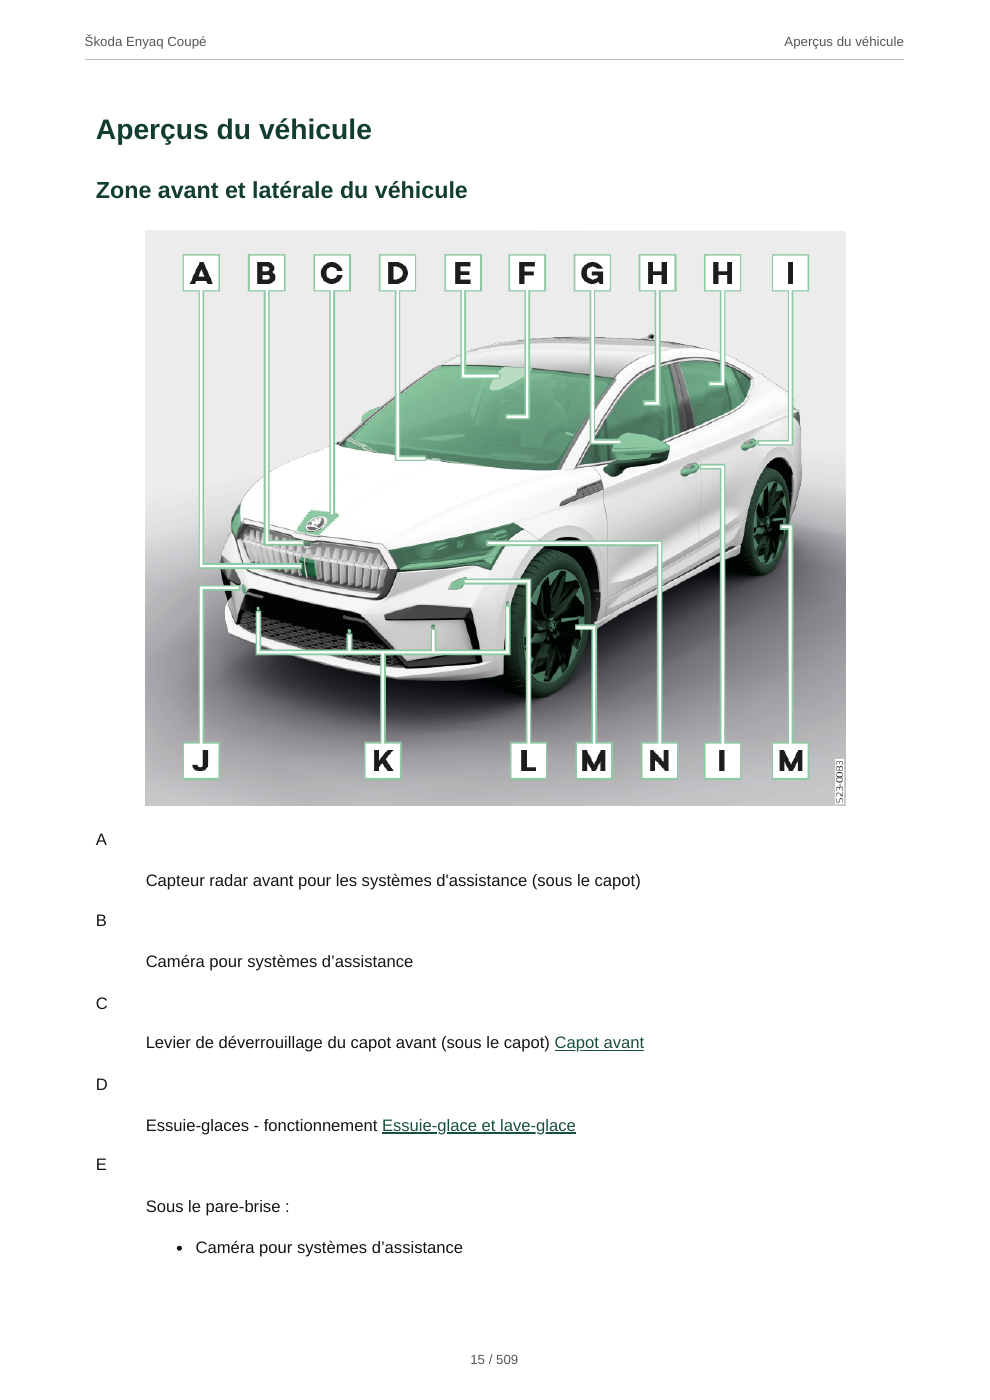
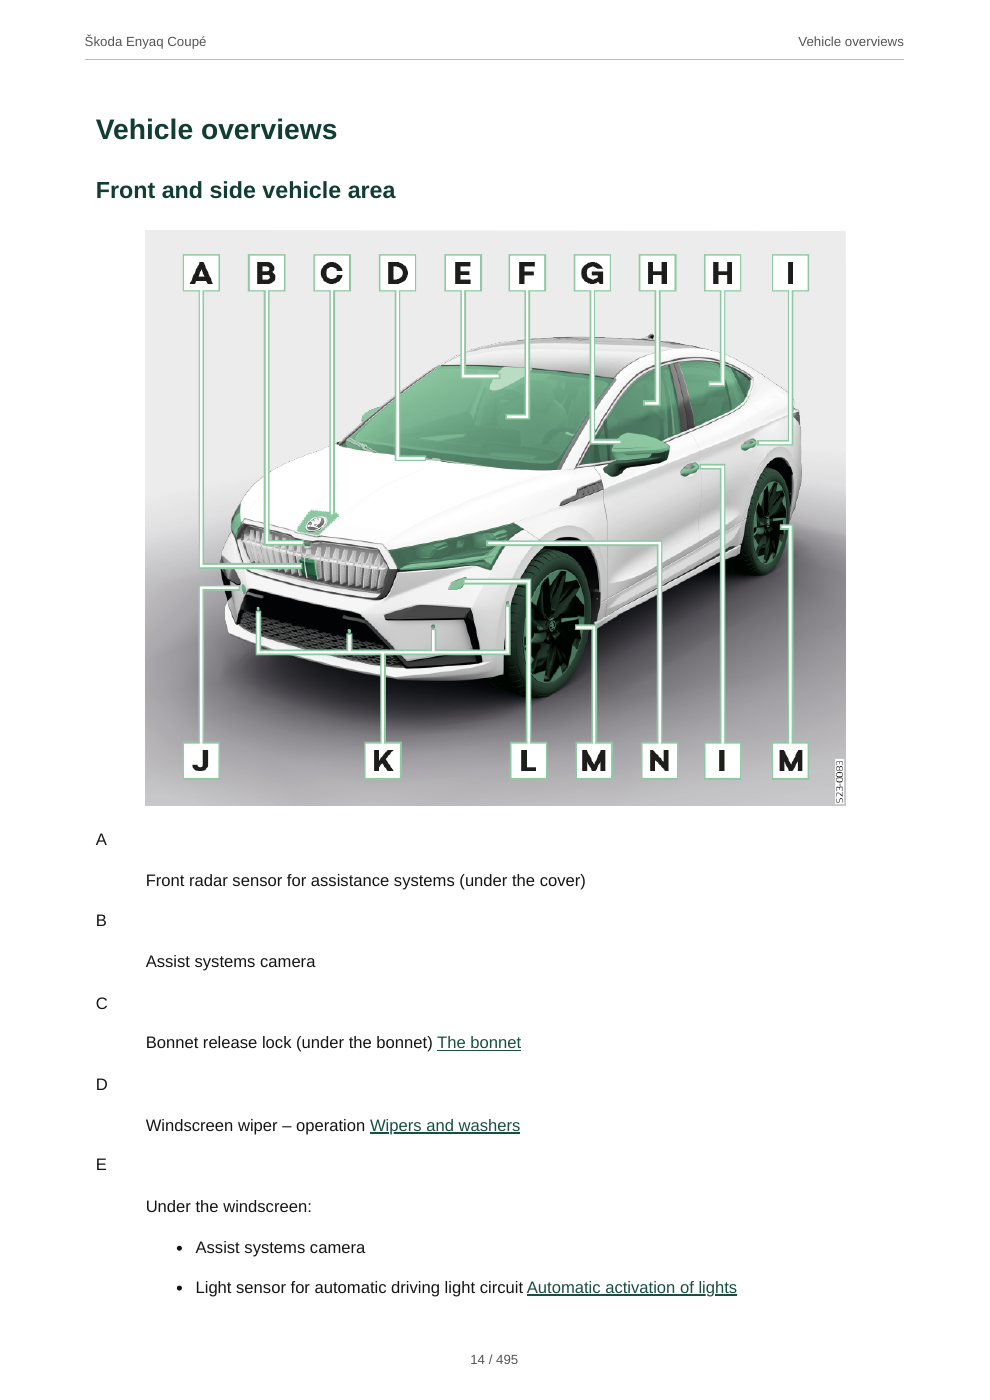
docs: replace pdf preview with english sample

diff --git a/README.md b/README.md
@@ -4,9 +4,9 @@ Export the documentation Škoda returns for a VIN and language into one searchab
 
 ## PDF preview
 
-Sample page from a generated French Škoda Enyaq Coupé manual, showing illustrations, chapter headers and page numbering.
+Sample page from a generated English Škoda Enyaq Coupé manual, showing illustrations, chapter headers and page numbering.
 
-<img src="docs/images/pdf-sample.png" alt="Generated PDF page showing the Enyaq Coupé vehicle overview with a labelled illustration, chapter header and page number" width="600">
+<img src="docs/images/pdf-sample.png" alt="Generated English PDF page showing the Enyaq Coupé vehicle overview with a labelled illustration, chapter header and page number" width="600">
 
 Source manual text and illustrations © Škoda Auto a.s.
 
